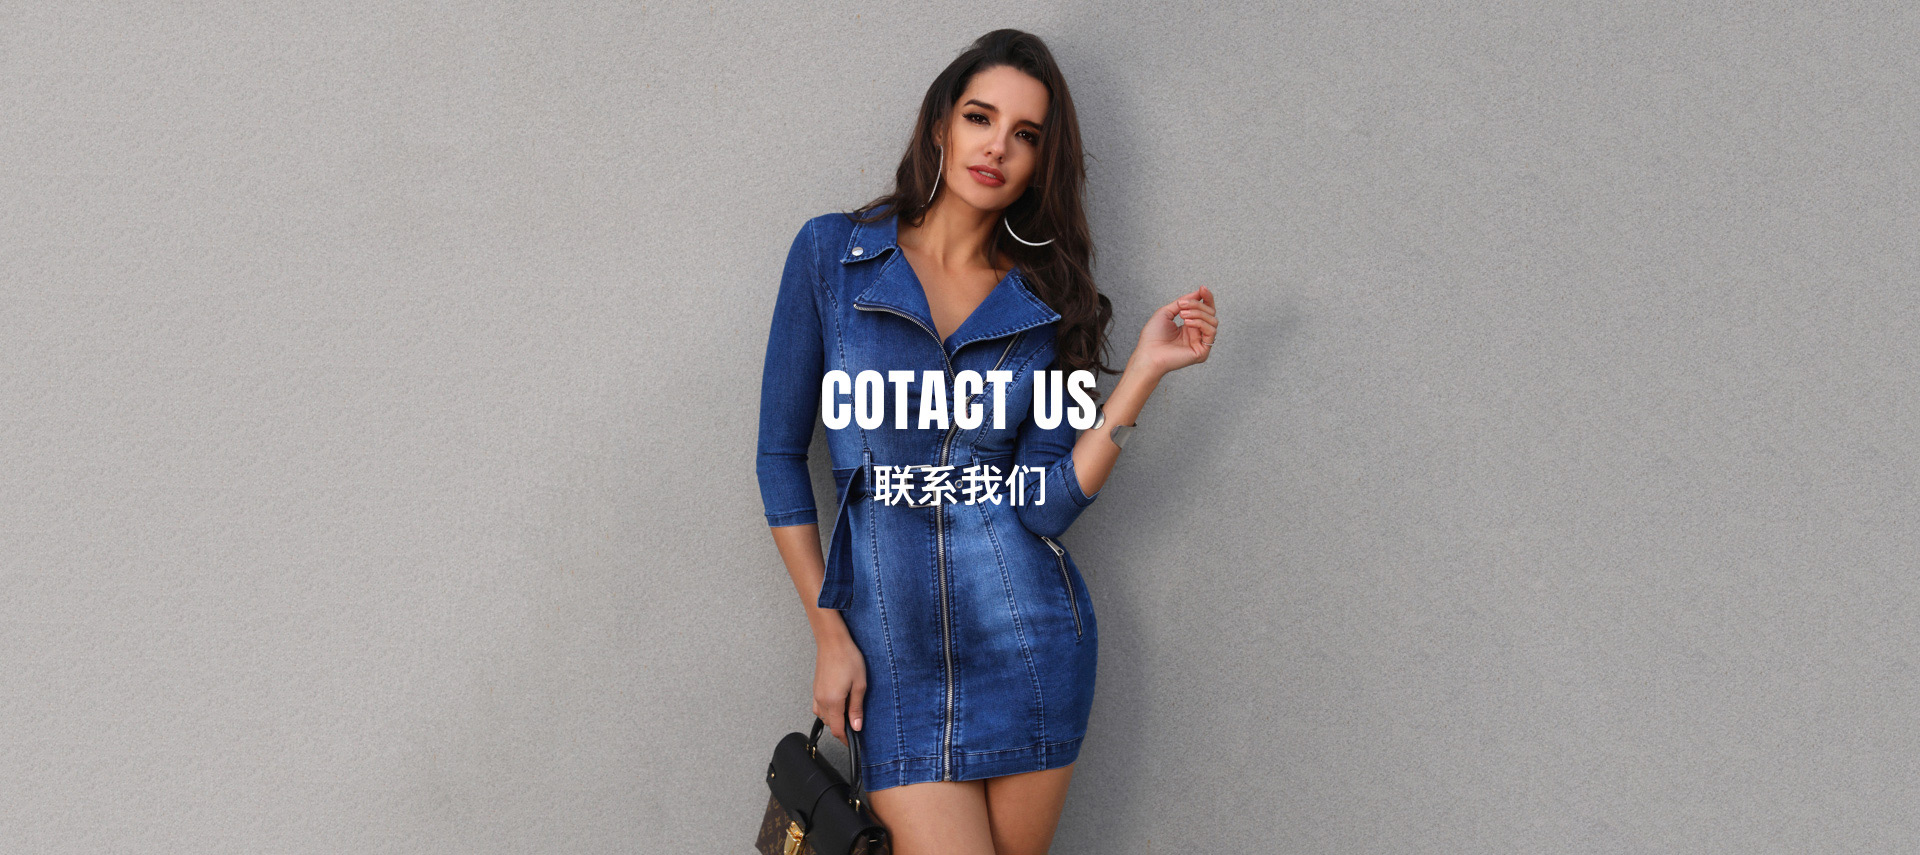
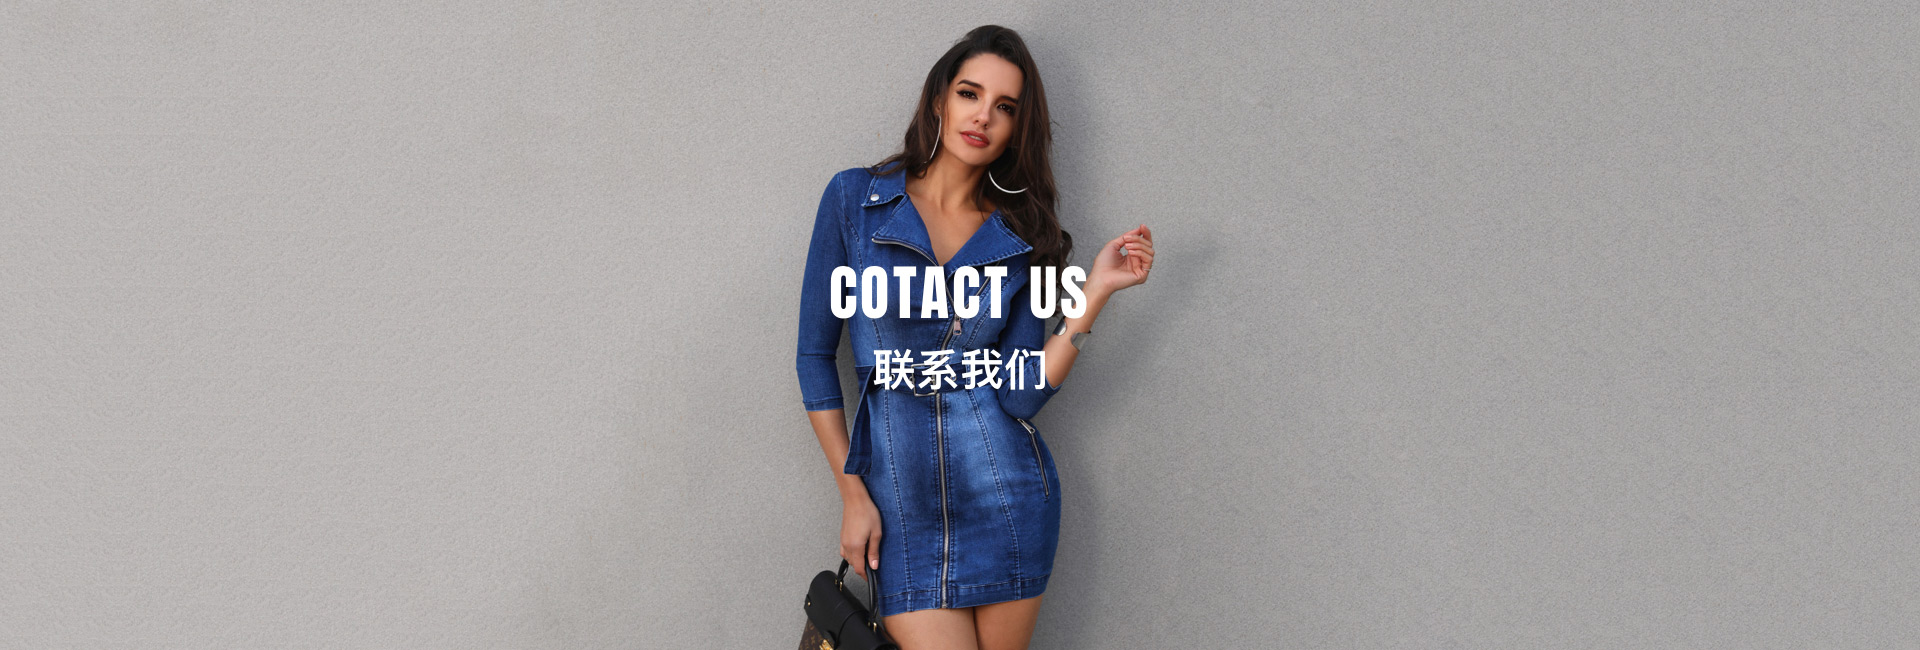
fuck you

Changed region(s): [[0.375, 0.0308, 0.6875, 1.0]]

diff --git a/geekoonline/src/pages/join.jsx b/geekoonline/src/pages/join.jsx
@@ -26,10 +26,28 @@ const FIGURE = Styled.figure`
     width: 80%;
     text-align: center;
   }
+
+  @media (min-width: 1200px) {
+    position: absolute;
+    top: 0;
+    left: 0;
+    transition: .1s ease;
+    &:hover{
+      width: 393px;
+      left: -10px;
+      top: -10px;
+    }
+  }
 `
 
 const BLOCKER = Styled.div`
   margin-top: 60px;
+
+  @media (min-width: 1200px) {
+    position: relative;
+    width: 373px;
+    height: 284px;
+  }
   
   @media (max-width: 1200px) {
     margin-top: 80px;
@@ -184,7 +202,7 @@ export default class extends React.Component{
     <CONTAINER>
       <section>
         <RES1 width1={373} width2={373} width3={373}>
-          <BLOCKER>
+          <BLOCKER style={{position: 'relative'}}>
             <Link to="/join/shanghai">
               <FIGURE>
                 <BLOCKIMAGE src="/images/join/1.jpg" src1="/images/join/1.jpg"/>
@@ -194,7 +212,7 @@ export default class extends React.Component{
               </FIGURE>
             </Link>
           </BLOCKER>
-          <BLOCKER>
+          <BLOCKER style={{position: 'relative'}}>
             <Link to="/join/guangzhou">
               <FIGURE>
                 <BLOCKIMAGE src="/images/join/2.jpg"/>
@@ -204,7 +222,7 @@ export default class extends React.Component{
               </FIGURE>
             </Link>
           </BLOCKER>
-          <BLOCKER>
+          <BLOCKER style={{position: 'relative'}}>
             <Link to="/join/nanjing">
               <FIGURE>
                 <BLOCKIMAGE src="/images/join/3.jpg"/>

diff --git a/geekoonline/src/components/banner.jsx b/geekoonline/src/components/banner.jsx
@@ -2,9 +2,11 @@ import React from 'react'
 import Styled from 'styled-components'
 
 export const BANNER = Styled.div`
-  background: url(${props => props.src}) center 89px/auto 100% fixed no-repeat;
-  height: 857px;
+  background: url(${props => props.src}) center 89px/auto 650px fixed no-repeat;
+  height: 650px;
+  margin-top: 89px;
   @media (max-width: 1200px) {
-    background: url(${props => props.src1}) center 60px/auto 100% no-repeat;
+    background: url(${props => props.src1}) center/auto 650px no-repeat;
+    margin-top: 60px;
   }
 `
